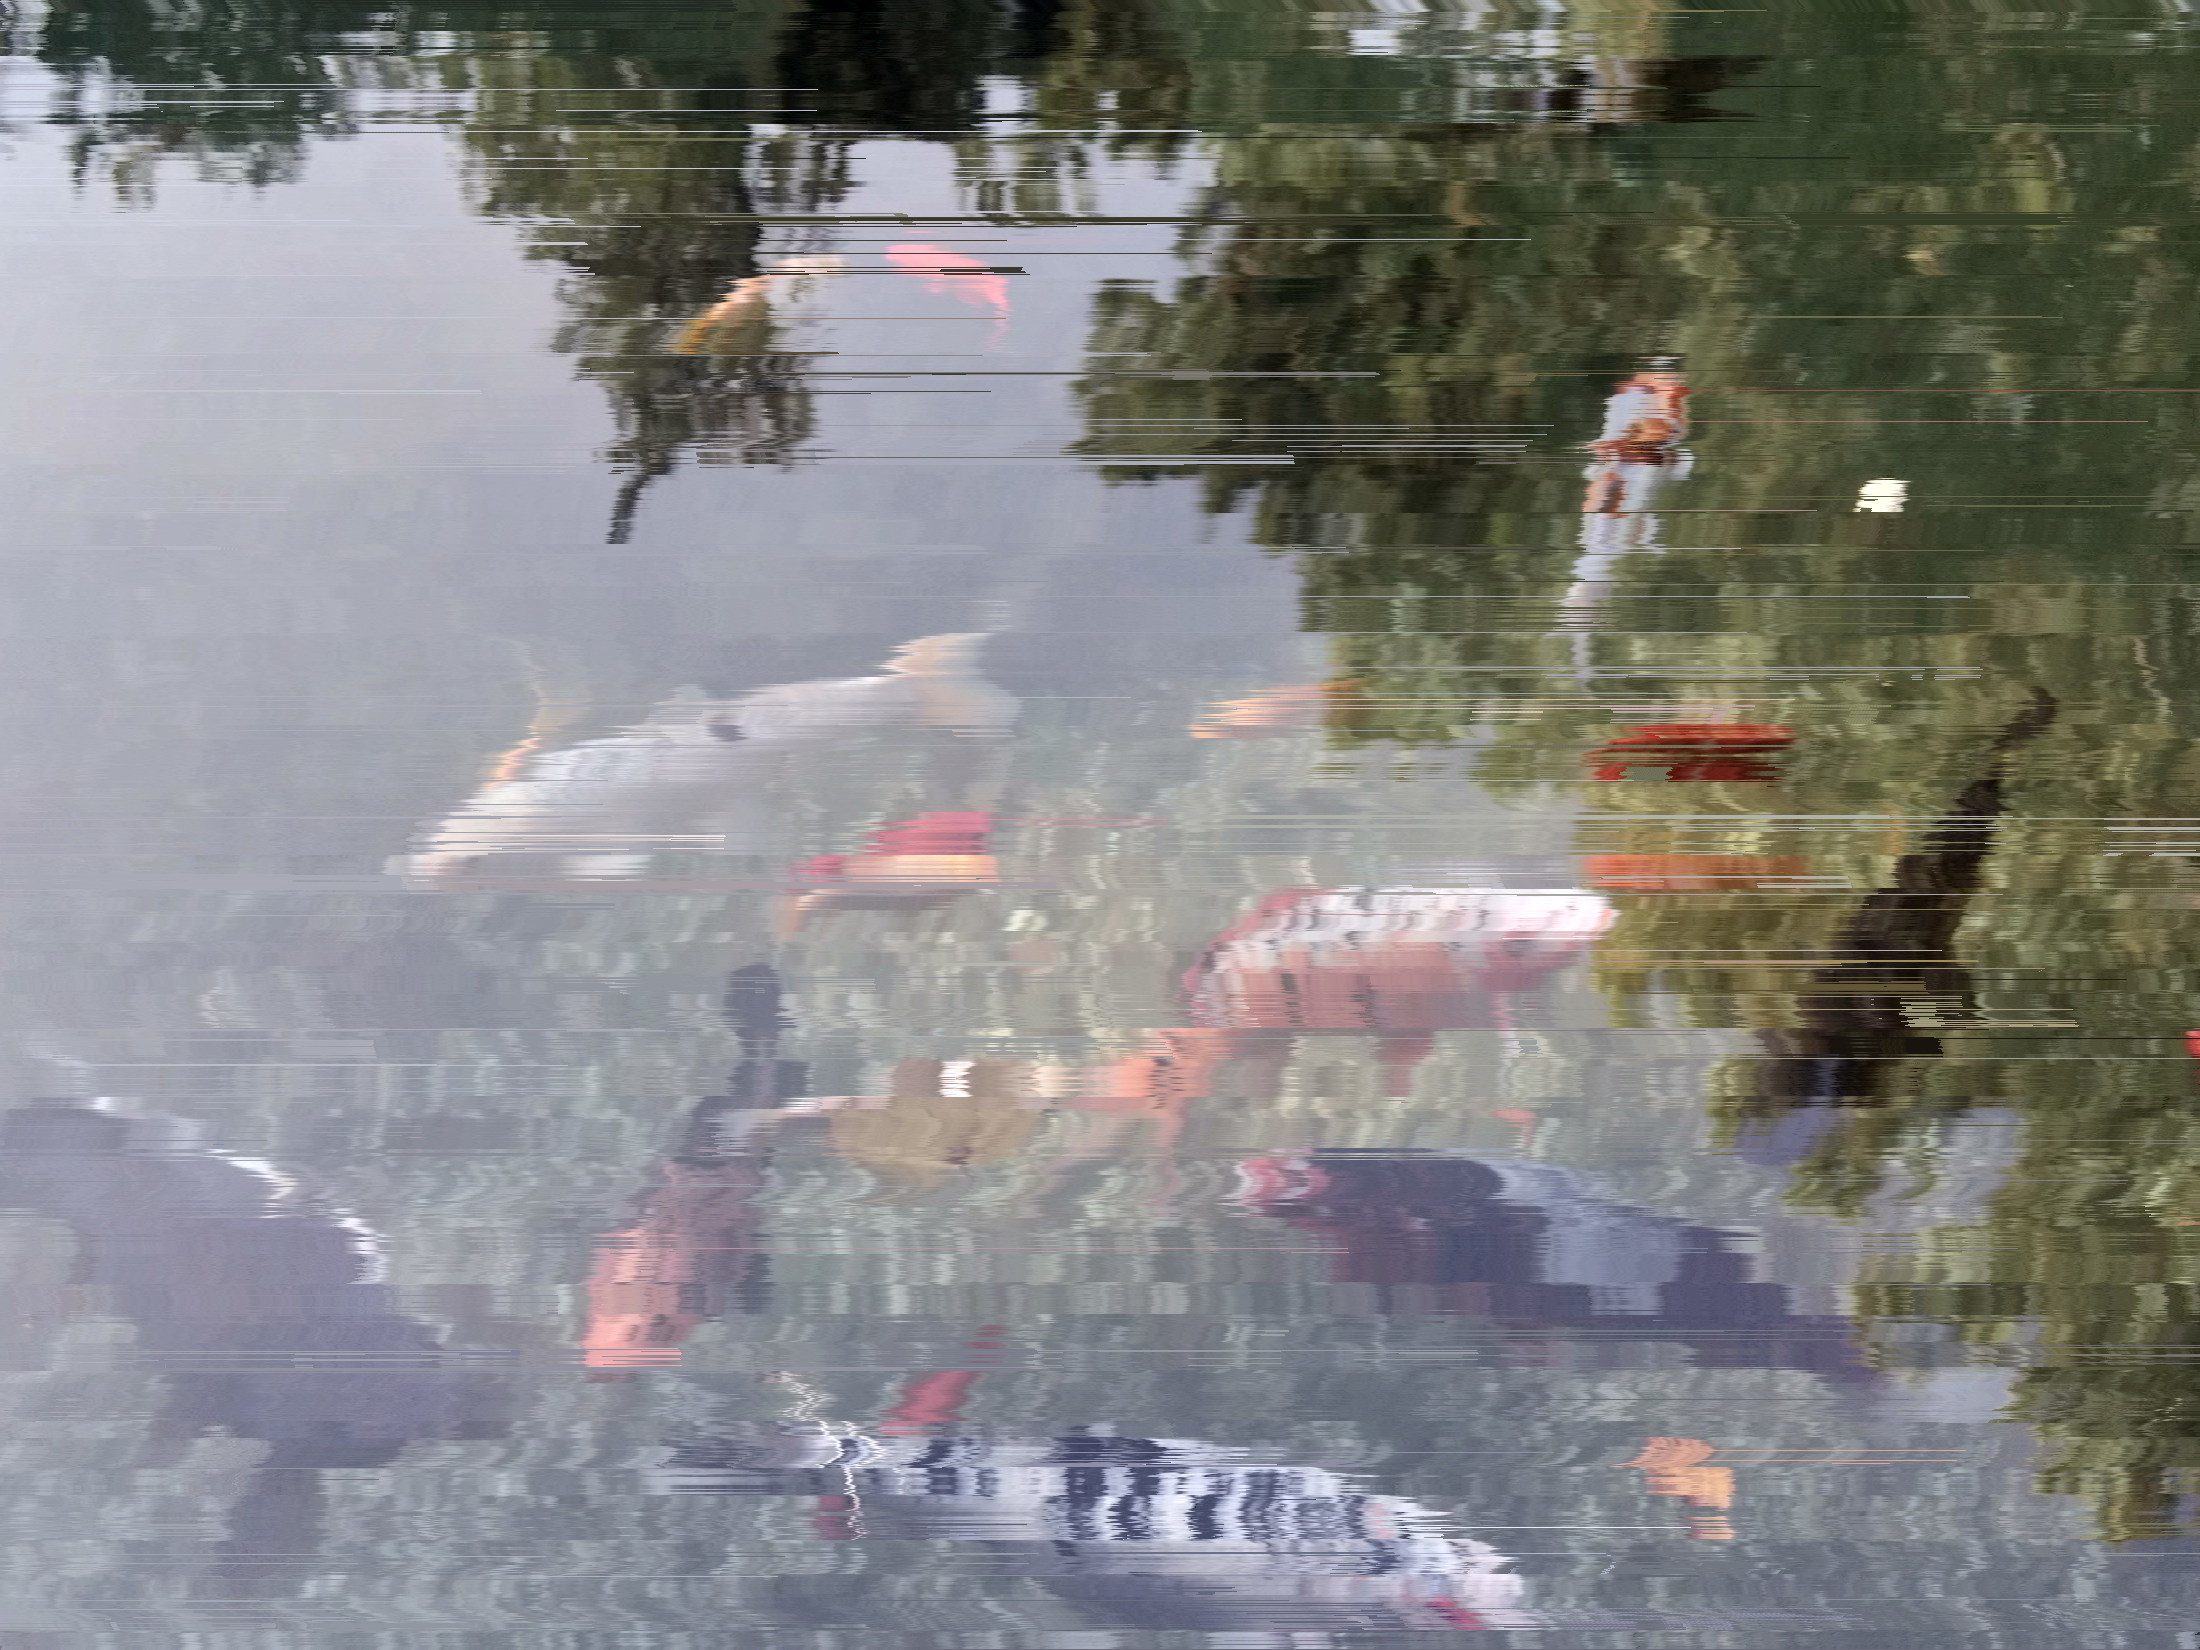
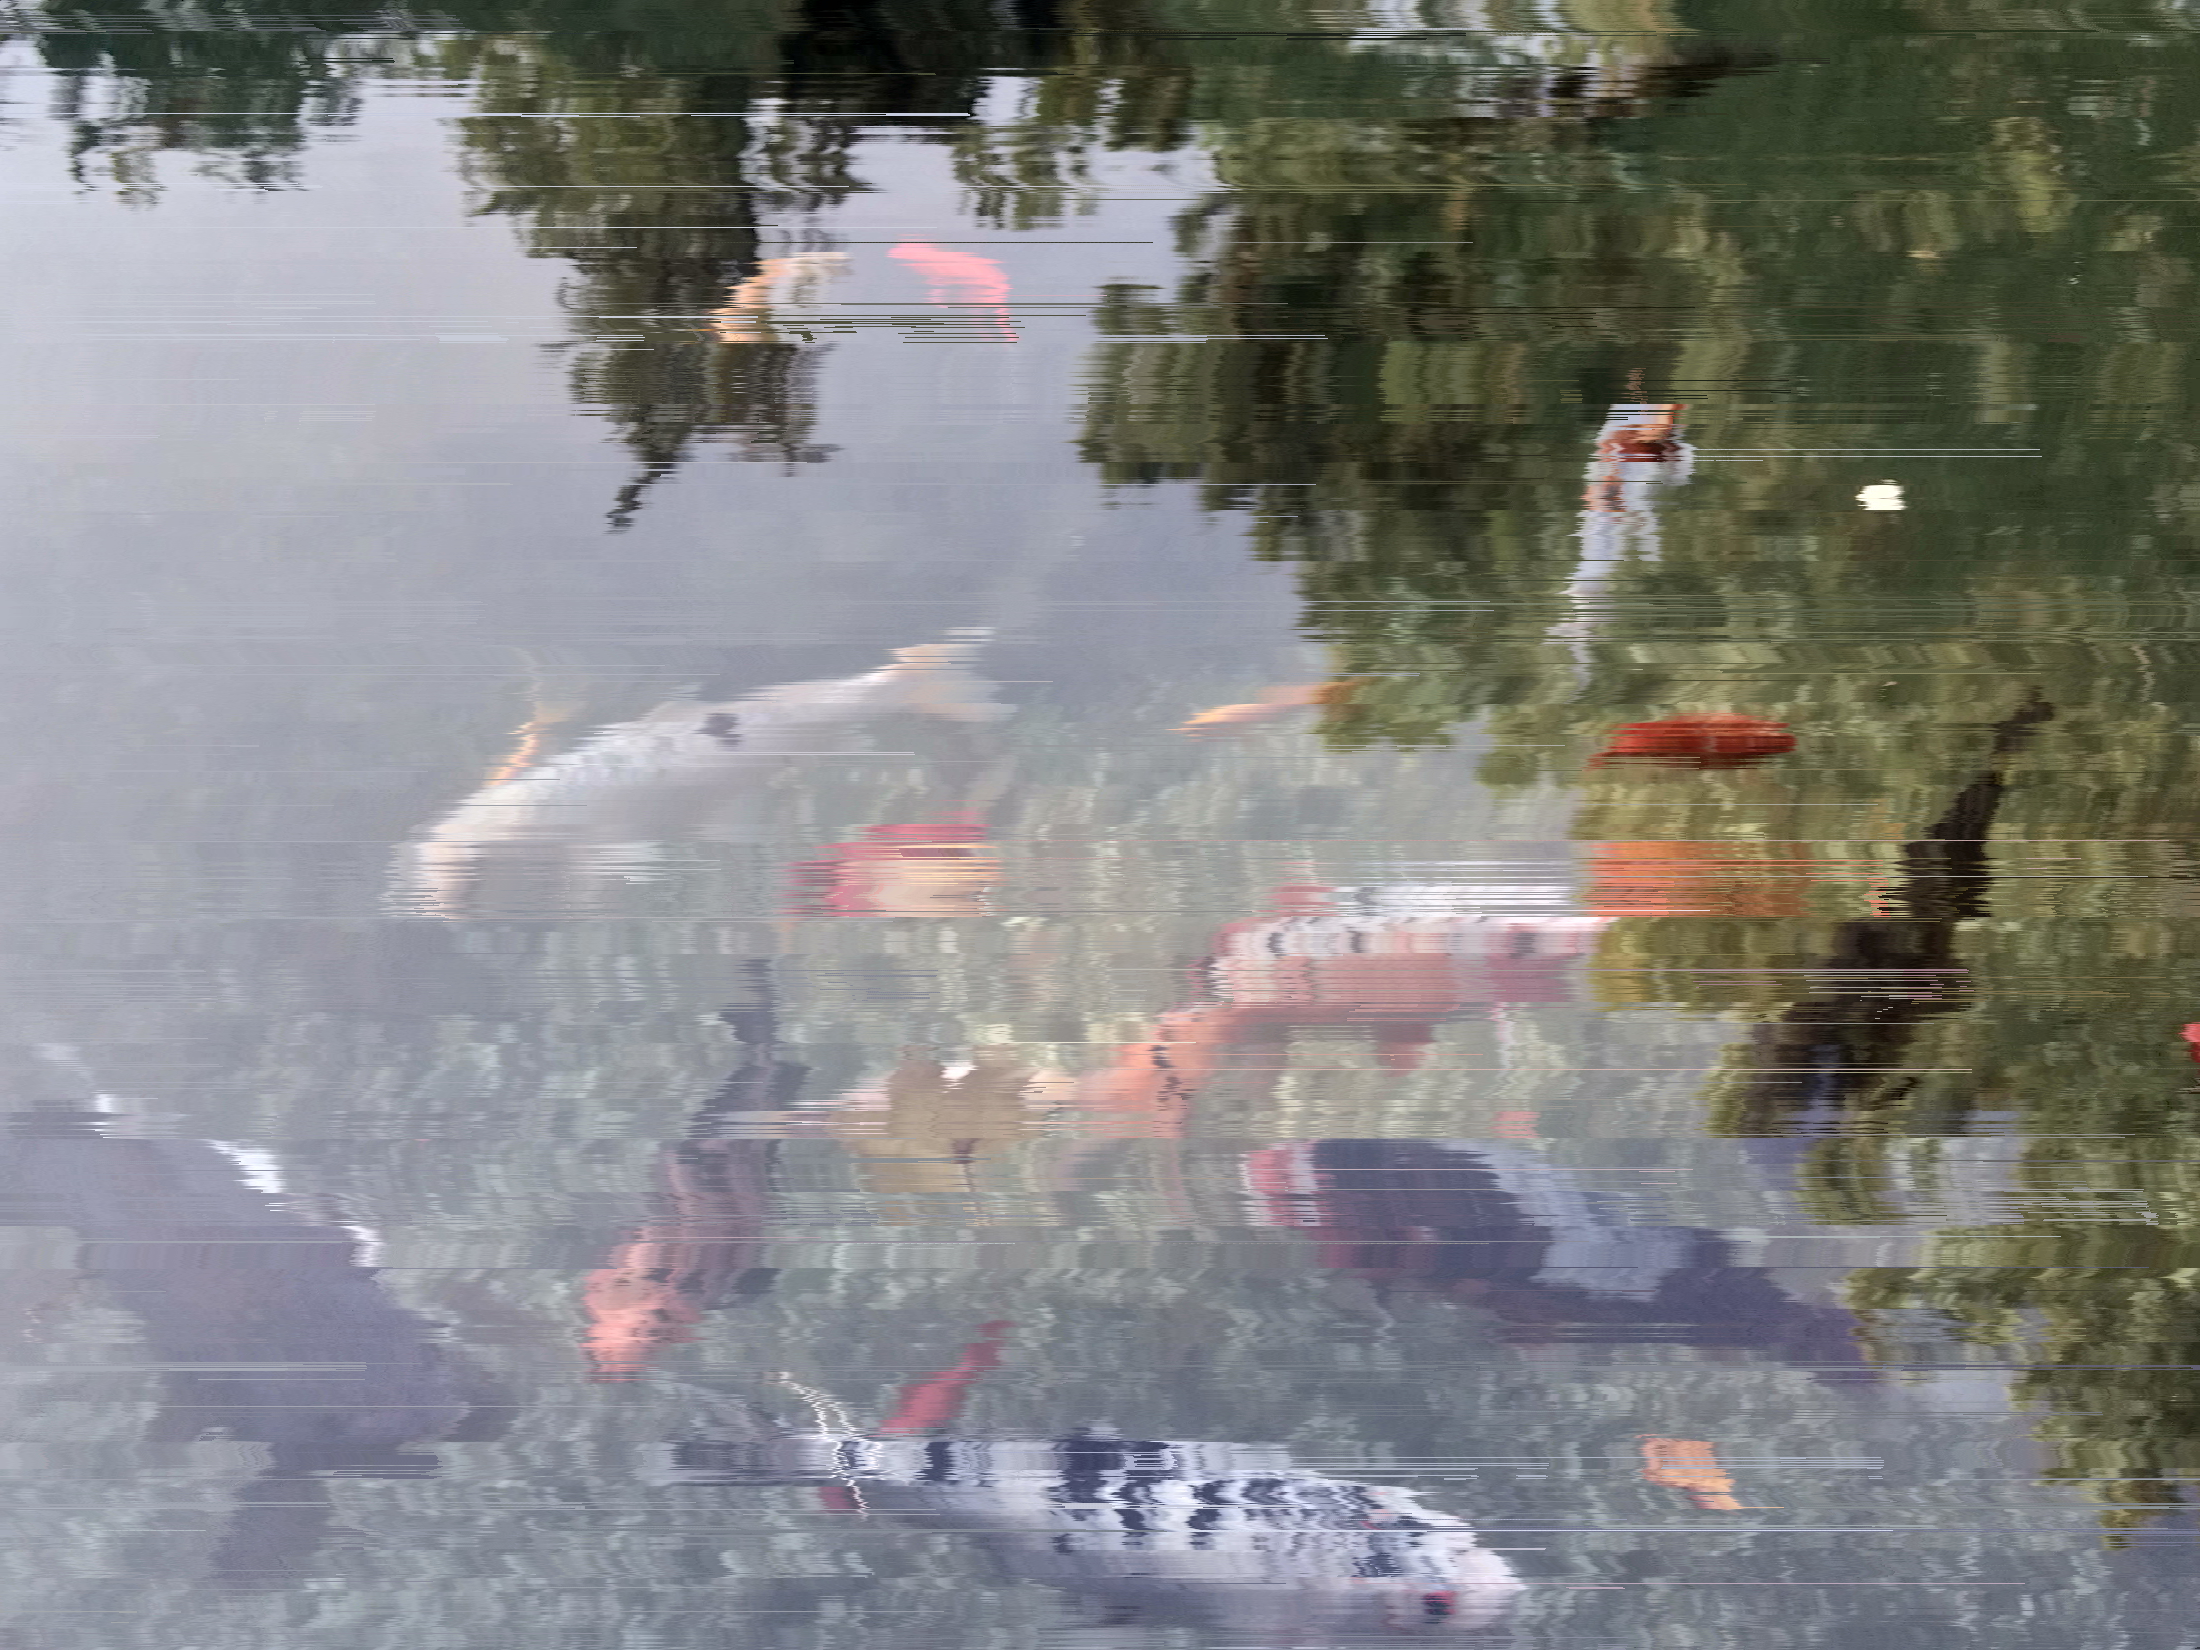
new glitching_buf method

diff --git a/src/glitch.rs b/src/glitch.rs
@@ -1,6 +1,6 @@
 use std::path::Path;
 use rand::Rng;
-use image::DynamicImage;
+use image::{ DynamicImage, RgbImage };
 
 pub struct Glitch;
 
@@ -42,5 +42,32 @@ impl Glitch {
         let out_filename = format!("{}.rg.png", filename);
         let _ = DynamicImage::ImageRgb8(buf).save(&out_filename);
         println!("Saved => {0}", out_filename);
+    }
+    pub fn glitching_buf(buf: &mut RgbImage) -> &mut RgbImage {
+        let (w, h) = buf.dimensions();
+        let mut xoff: i16 = 0;
+        let mut yoff: i16 = 0;
+        let mut rng = rand::thread_rng();
+    
+        for y in 0..h {
+            for x in 0..w {
+                if rand::random::<u16>() < 100 {
+                    xoff += rng.gen_range(-1..2);
+                }
+                if rand::random::<u16>() < 500 {
+                    yoff += rng.gen_range(-1..2);
+                }
+                if rand::random::<u16>() < 10 {
+                    xoff /= 2;
+                    yoff /= 2;
+                }
+            
+                let srcx = clamp((x as i16) + xoff, 0, (w - 1) as i16);
+                let srcy = clamp((y as i16) + yoff, 0, (h - 1) as i16);
+                let src_pixel = buf[(srcx as u32, srcy as u32)];
+                buf.put_pixel(x, y, src_pixel);
+            }
+        }
+        buf
     }
 }

diff --git a/src/main.rs b/src/main.rs
@@ -38,6 +38,7 @@ fn main() {
     Graphics::recursive_lines_y(&mut img, 20.0, 320, 20, 10, 200, red);
     Utils::get_random_int_inclusive(0, 100);
     Glitch::glitching_file("imgs/fishes.jpg".to_string());
+    Glitch::glitching_buf(&mut img).save("imgs/visual_poetry_glitch.jpg").ok();
     img.save("imgs/visual_poetry.jpg").ok();
     println!("Image saved");
 }
